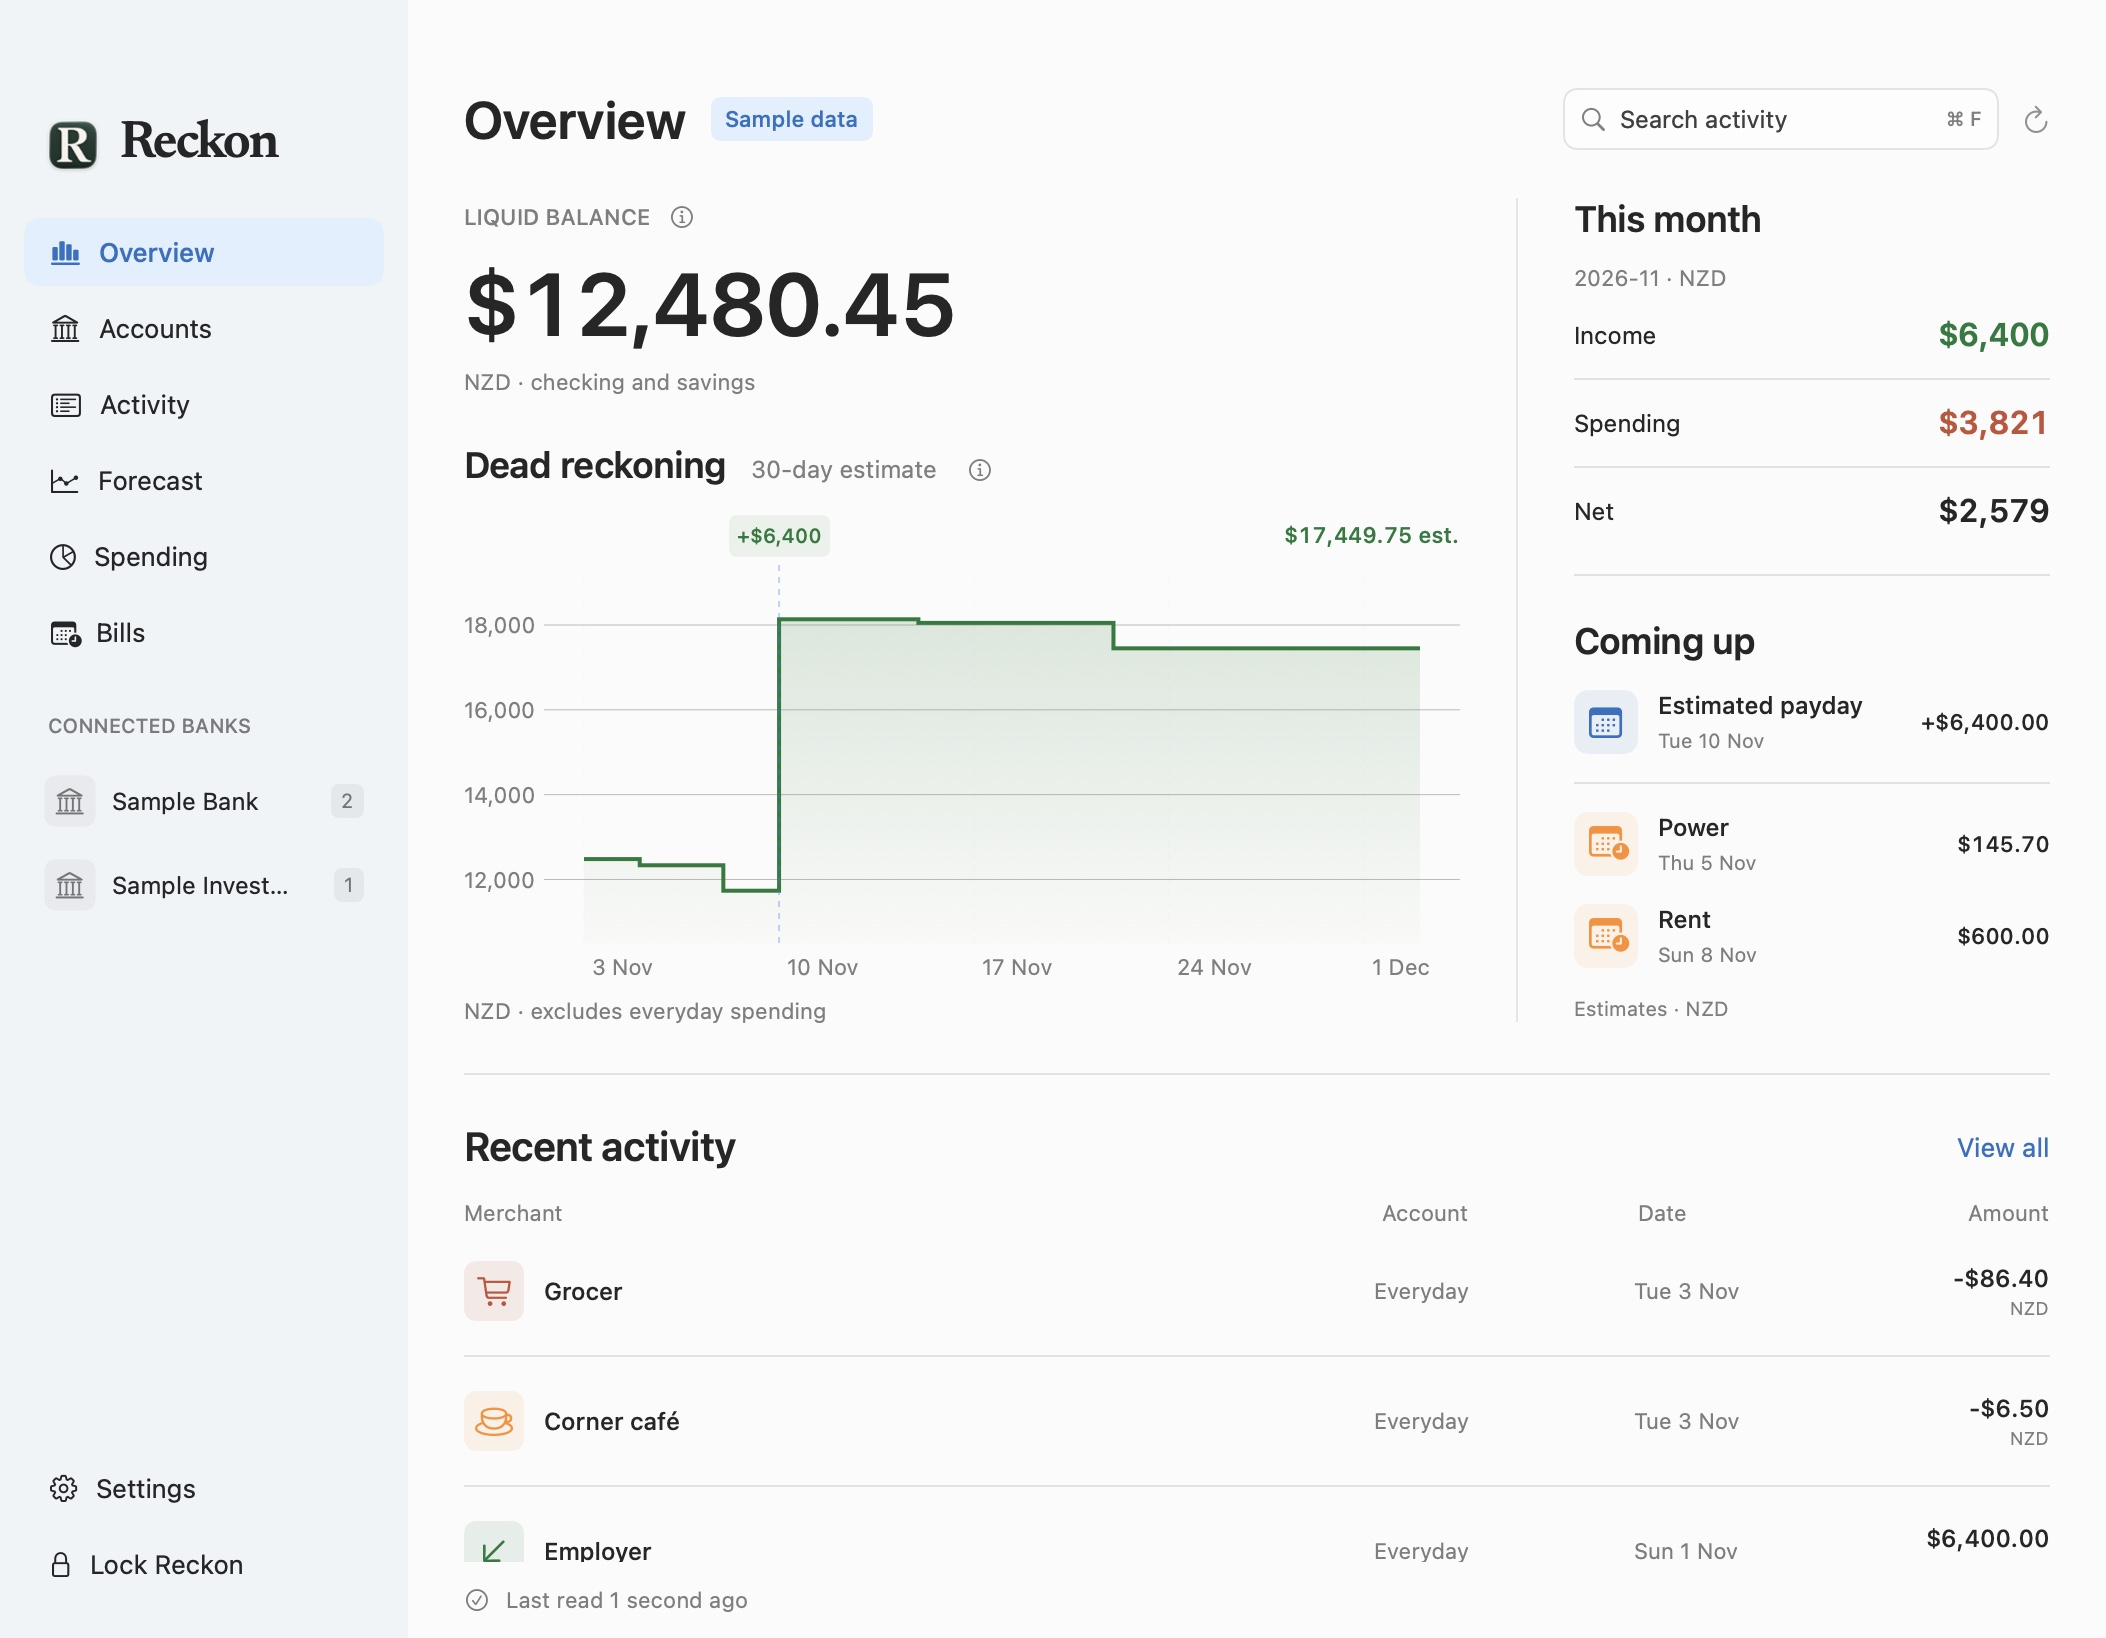
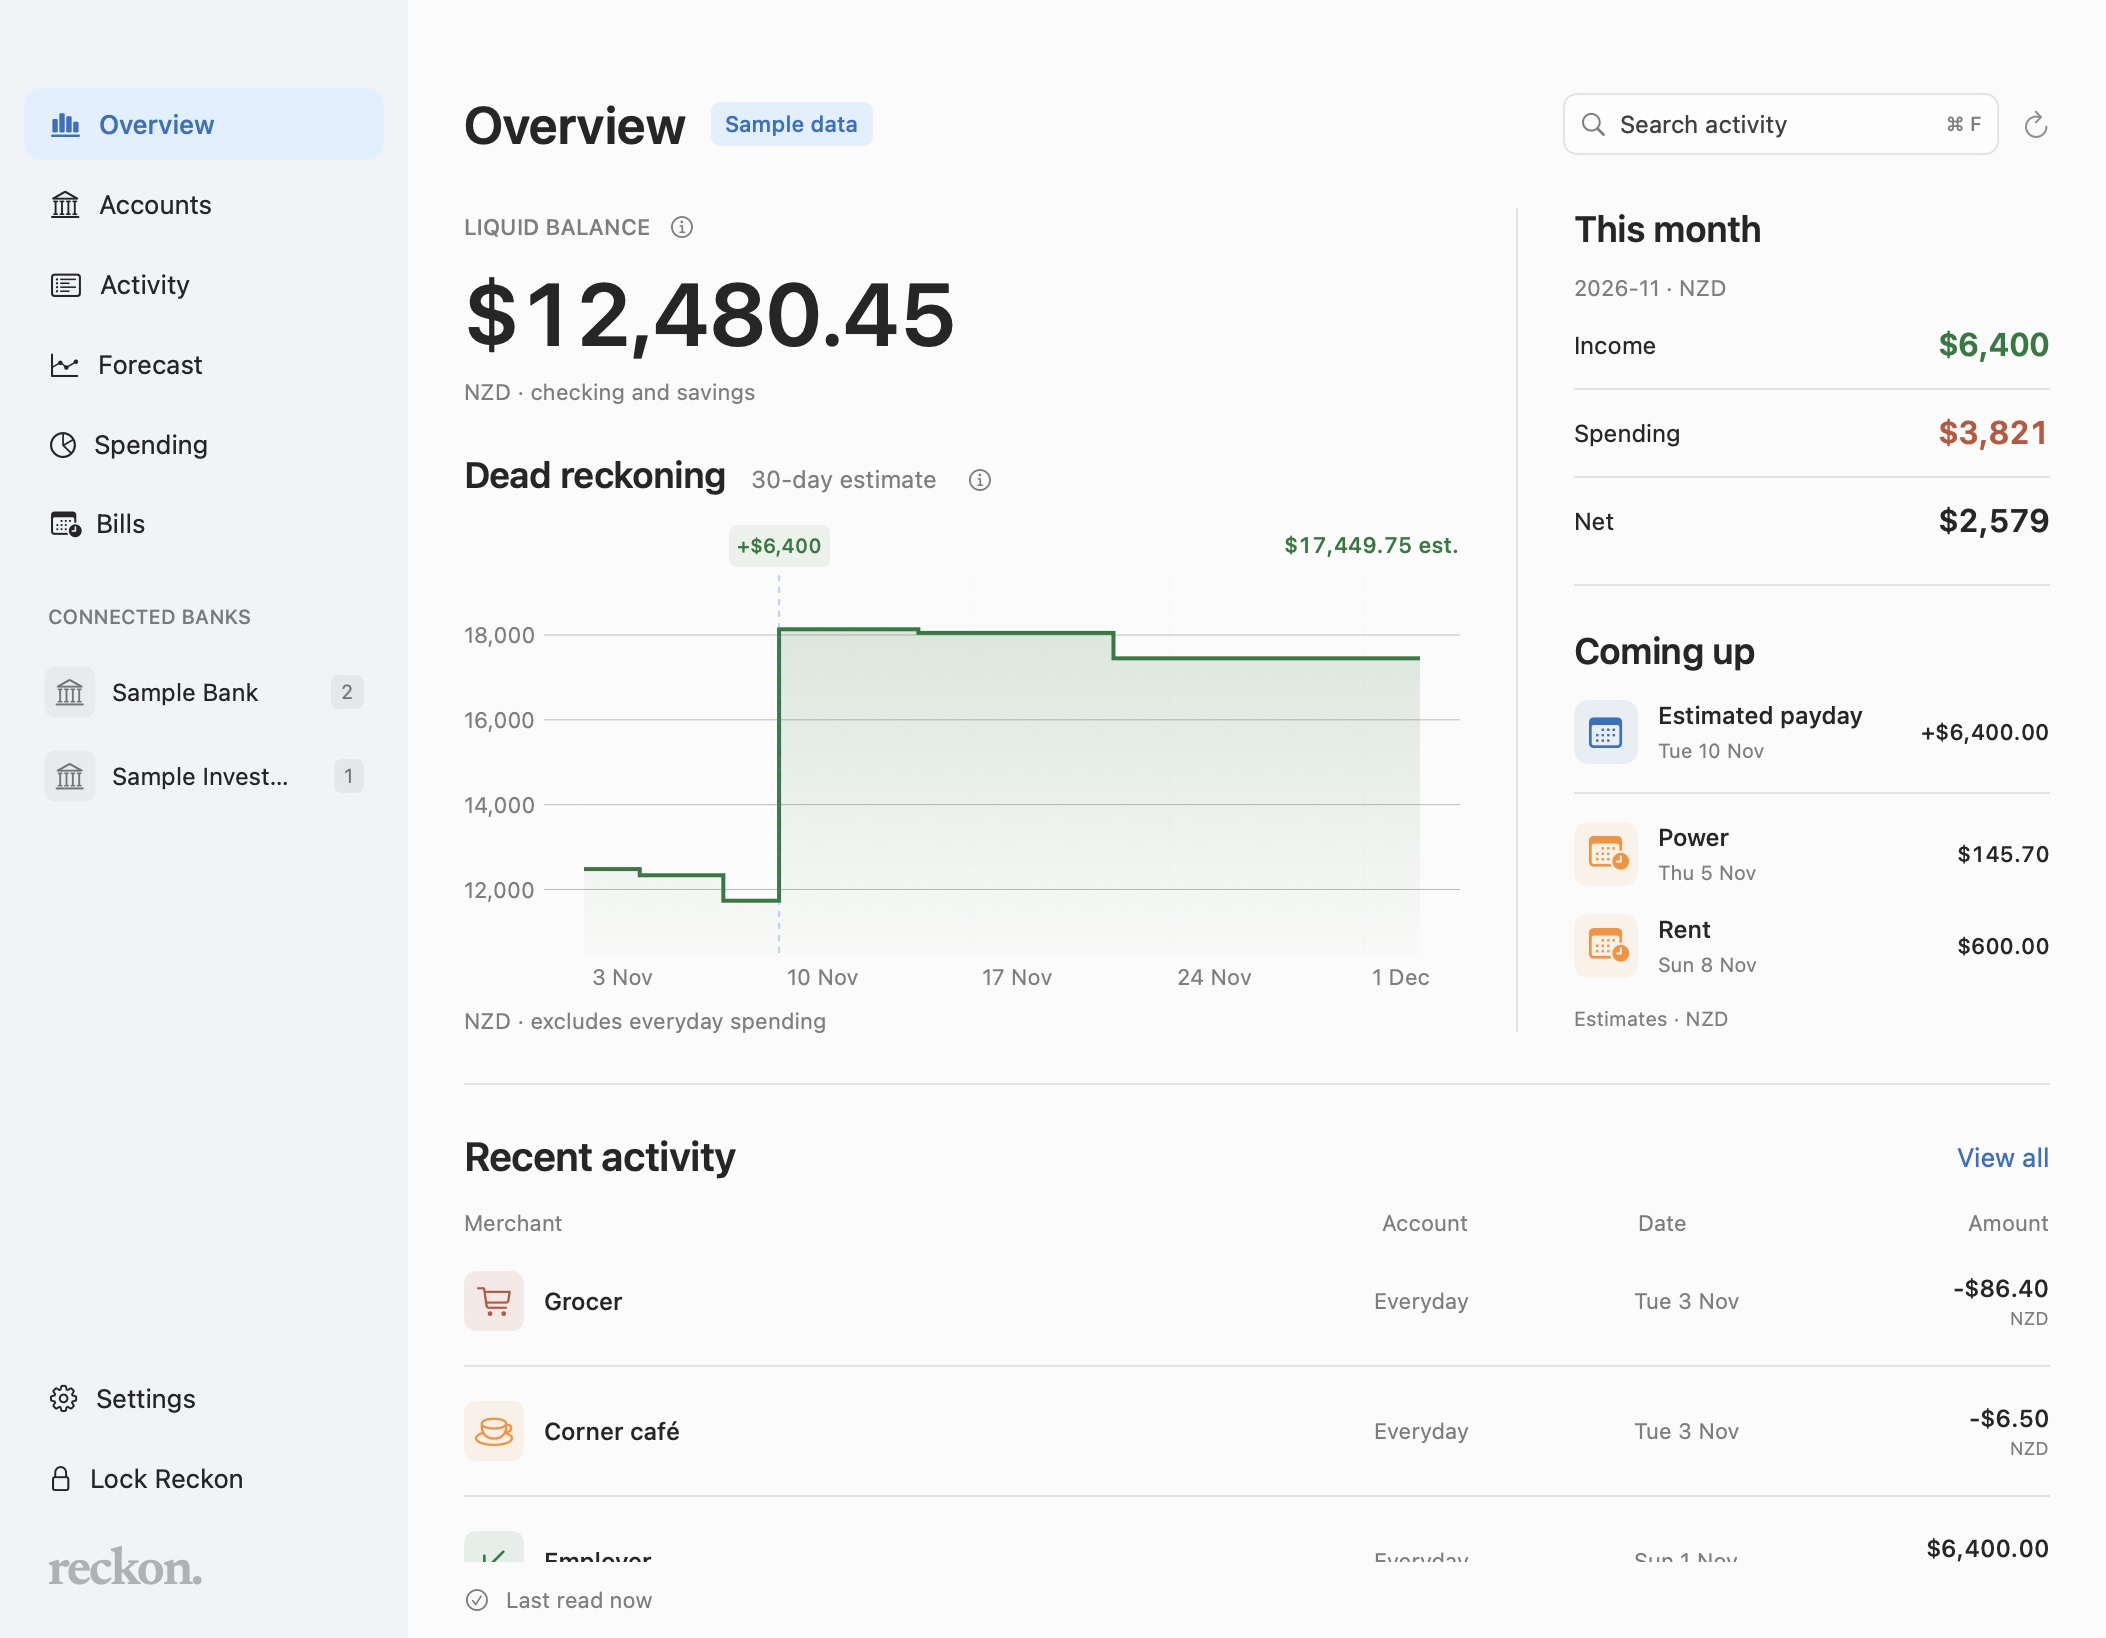
Keep sidebar navigation and move muted wordmark below lock

diff --git a/Sources/ReckonApp/ReckonDesktopView.swift b/Sources/ReckonApp/ReckonDesktopView.swift
@@ -59,13 +59,16 @@ struct ReckonDesktopView: View {
         .onAppear { if navigation.section == .activity { searchFocused = true } }
     }
 
+    /// A quiet footer wordmark matches the web brand without adding another navigation control.
+    private var desktopBrand: some View {
+        Text("reckon.").font(ReckonBrandTypography.wordmark).tracking(-0.8)
+            .foregroundStyle(.secondary).opacity(0.55)
+            .frame(maxWidth: .infinity, alignment: .leading)
+            .accessibilityHidden(true)
+    }
+
     private var sidebar: some View {
         VStack(alignment: .leading, spacing: 22) {
-            HStack(spacing: 9) {
-                Image(nsImage: NSImage(named: NSImage.applicationIconName) ?? NSImage())
-                    .resizable().frame(width: 29, height: 29)
-                Text("Reckon").font(ReckonBrandTypography.wordmark).tracking(-0.8)
-            }.padding(.horizontal, 10)
             VStack(spacing: 4) {
                 ForEach(ReckonDashboardSection.allCases) { section in
                     sidebarButton(section.shortLabel, image: section.systemImage,
@@ -99,9 +102,10 @@ struct ReckonDesktopView: View {
             VStack(spacing: 4) {
                 sidebarButton("Settings", image: "gearshape", selected: false, action: openSettings)
                 sidebarButton("Lock Reckon", image: "lock", selected: false, action: lock)
+                desktopBrand.padding(.horizontal, 12).padding(.top, 12)
             }
         }
-        .padding(.horizontal, 12).padding(.top, 58).padding(.bottom, 20)
+        .padding(.horizontal, 12).padding(.top, 44).padding(.bottom, 20)
         .frame(width: 204).frame(maxHeight: .infinity)
         .background(ReckonDesktopAppearance.sidebar.opacity(0.85))
     }
@@ -110,7 +114,7 @@ struct ReckonDesktopView: View {
         Button(action: action) {
             Label(title, systemImage: image).font(.system(size: 13, weight: selected ? .medium : .regular))
                 .labelStyle(.titleAndIcon).frame(maxWidth: .infinity, alignment: .leading)
-                .padding(.horizontal, 12).padding(.vertical, 9).contentShape(Rectangle())
+                .padding(.horizontal, 12).frame(height: 36).contentShape(Rectangle())
         }
         .buttonStyle(.plain).foregroundStyle(selected ? ReckonAppearance.accent : Color.primary)
         .background(selected ? ReckonDesktopAppearance.selection : .clear, in: RoundedRectangle(cornerRadius: 8))
@@ -146,6 +150,7 @@ struct ReckonDesktopView: View {
                 ReckonUpdateBadge(notice: notice, canOpenUpdate: softwareUpdates.canCheckForUpdates, openUpdate: openSoftwareUpdate)
             }
         }
+        .frame(height: 36)
         .padding(.horizontal, 28).padding(.top, 44).padding(.bottom, 24)
     }
 

diff --git a/docs/DEVELOPMENT.md b/docs/DEVELOPMENT.md
@@ -102,7 +102,7 @@ A visit begins only once while a financial surface is open. Opening or closing t
 
 The desktop uses a light appearance, blue navigation, and the same visible currency, forecast, partial-failure, and source-freshness warnings as the dropdown. The [README](../README.md#desktop-preview) lists shortcuts and sample screenshots. The [design reference](design/README.md) contains the generated concept, not an app screenshot.
 
-The desktop name uses bundled Newsreader SemiBold at 26 points, matching the web wordmark's typeface. `ReckonBrandTypography` registers it only for this process and sets its weight and optical-size axes. Other text uses the macOS system font. The build includes the font and its SIL Open Font License from `Resources/Fonts`; no system font installation or download is required at runtime.
+The muted lowercase `reckon.` wordmark sits beneath **Lock Reckon** in the sidebar, matching the web brand. Navigation stays in the sidebar, with its first row aligned to the page heading. The desktop name uses bundled Newsreader SemiBold at 26 points, matching the web wordmark's typeface. `ReckonBrandTypography` registers it only for this process and sets its weight and optical-size axes. Other text uses the macOS system font. The build includes the font and its SIL Open Font License from `Resources/Fonts`; no system font installation or download is required at runtime.
 
 ## Data and calculations
 
